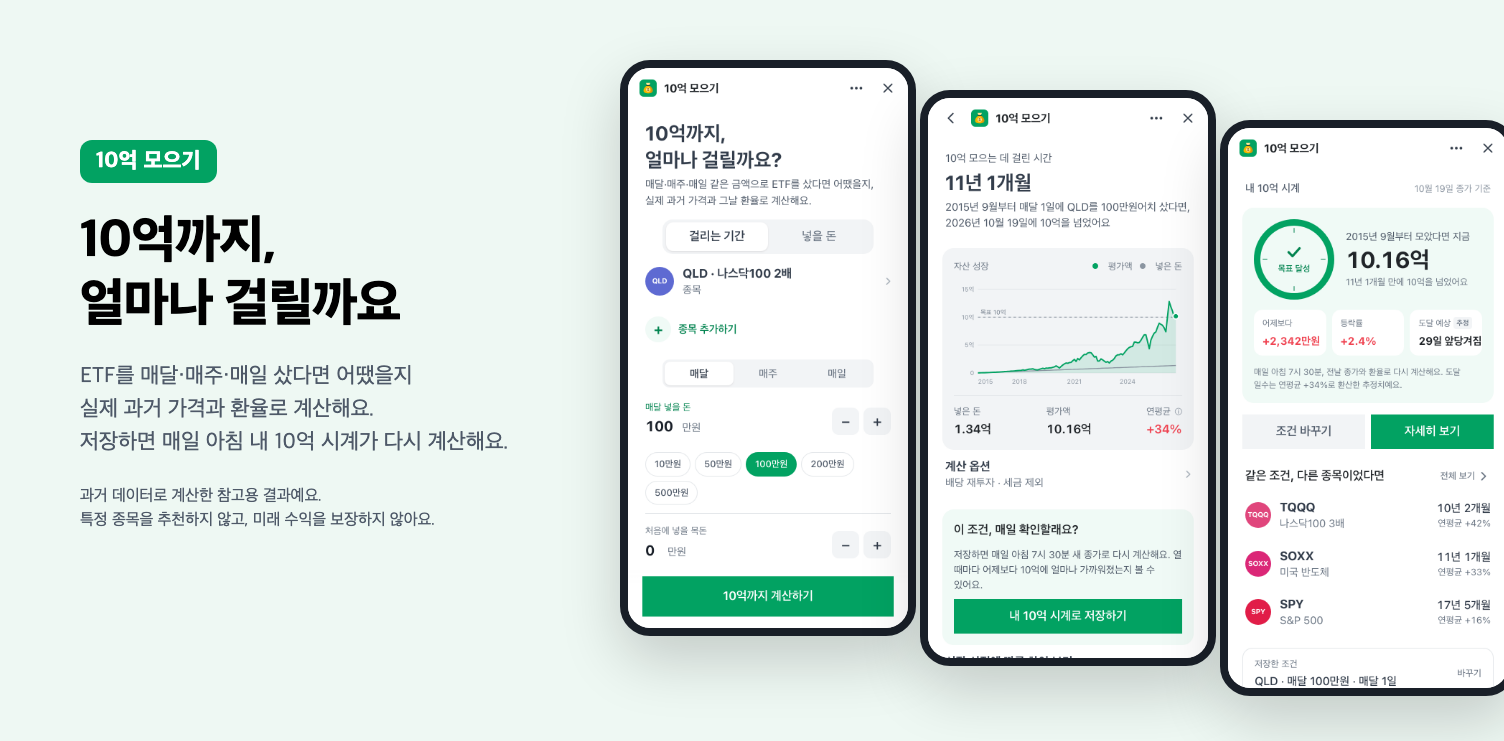
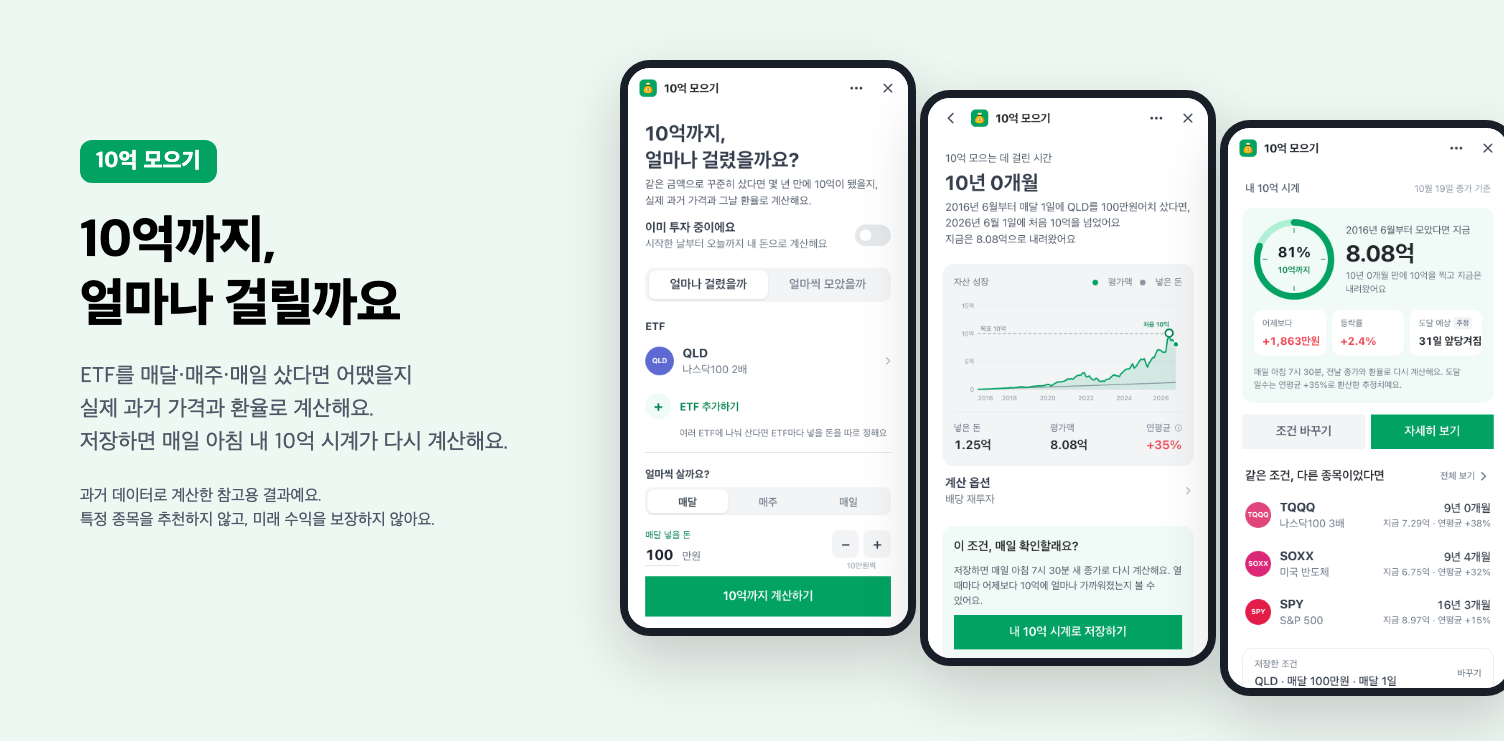
feat(toss): 홈 입력 화면 개편(리뷰 10건 반영)
- 제목·탭 과거형: '얼마나 걸렸을까요?' · '얼마씩 모았어야 했을까요?'(미래 예측처럼 읽히지 않게)
- '이미 투자 중이에요'를 맨 위로(계산 기준 선택), 설명 '시작한 날부터 오늘까지 내 돈으로 계산해요'
- 'ETF' 섹션 라벨, 행 보조문구 '종목' 제거, 'ETF 추가하기'+안내, 분산 매수 행에 비중 %
- '얼마씩 살까요?' 아래 주기+금액 묶음, 숫자·셀렉트에 밑줄과 ▾, ± 아래 '10만원씩'
- '시작할 때 한 번에 넣을 돈'·칩 '0원', 매수일 값 '1일'
- 광고 CTA '광고 보고 계산하기', 면책 문구 공통 문장으로
- 좌우 기준선 24px 통일(TDS 세그먼트 이중 여백 제거), 스토어 스크린샷 재생성

diff --git a/toss/src/screens/InputScreen.tsx b/toss/src/screens/InputScreen.tsx
@@ -2,7 +2,7 @@ import { useEffect, useState } from "react";
 import { Button, ListRow, SegmentedControl, Switch, Top } from "@toss/tds-mobile";
 import { tickerTitle } from "@/lib/tickers";
 import { tossSubtitle } from "../lib/groups";
-import { NavBar, Stepper, TickerSheet, Avatar, HoldingRow } from "../components/ui";
+import { NavBar, Stepper, TickerSheet, Avatar, HoldingRow, ChevronDown } from "../components/ui";
 import { analytics } from "../lib/platform";
 import { manLabel, freqWord } from "../lib/fmt";
 import { AMOUNT_CHIPS, AMOUNT_MIN, AMOUNT_STEP, MAX_HOLDINGS, withHoldings, totalAmount, type Plan, type Freq, type Weekday, type Holding } from "../lib/plan";
@@ -38,79 +38,105 @@ export function InputScreen({ plan, setPlan, onSubmit, adNeeded = false, hasCloc
   };
   const remove = (i: number) => { setHs(hs.filter((_, j) => j !== i)); analytics.click("remove_holding", { count: hs.length - 1 }); };
   const canSubmit = !plan.tracking || /^\d{4}-\d{2}-\d{2}$/.test(plan.startDate);
+  const total = totalAmount(plan);
+  const cta = adNeeded ? "광고 보고 계산하기" : plan.tracking ? "내 돈 계산하기" : plan.mode === "time" ? "10억까지 계산하기" : "필요한 금액 계산하기";
   return (
     <div className="screen">
       <NavBar onMenu={onMenu} onClose={onClose} />
       <Top
         upperGap={16}
         lowerGap={4}
-        title={<Top.TitleParagraph size={28}>{plan.tracking ? <>내 돈은 지금,<br />10억까지 얼마나 왔을까요?</> : plan.mode === "amount" ? <>10억까지,<br />얼마씩 모아야 할까요?</> : <>10억까지,<br />얼마나 걸릴까요?</>}</Top.TitleParagraph>}
-        subtitleBottom={<Top.SubtitleParagraph size={15}>{plan.tracking ? "실제로 모으기 시작한 날과 금액을 넣으면, 지금 평가액과 10억까지 진행률을 매일 다시 계산해요." : "매달·매주·매일 같은 금액으로 ETF를 샀다면 어땠을지, 실제 과거 가격과 그날 환율로 계산해요."}</Top.SubtitleParagraph>}
+        title={<Top.TitleParagraph size={28}>{plan.tracking ? <>내 돈은 지금,<br />10억까지 얼마나 왔을까요?</> : plan.mode === "amount" ? <>10억까지,<br />얼마씩 모았어야 했을까요?</> : <>10억까지,<br />얼마나 걸렸을까요?</>}</Top.TitleParagraph>}
+        subtitleBottom={<Top.SubtitleParagraph size={15}>{plan.tracking
+          ? "투자를 시작한 날과 금액을 넣으면, 오늘 평가액과 10억까지 진행률을 계산해요."
+          : plan.mode === "amount"
+            ? "정한 기간 안에 10억이 되려면 얼마씩 샀어야 했는지, 실제 과거 가격과 그날 환율로 계산해요."
+            : "같은 금액으로 꾸준히 샀다면 몇 년 만에 10억이 됐을지, 실제 과거 가격과 그날 환율로 계산해요."}</Top.SubtitleParagraph>}
       />
       {hasClock && (
         <button type="button" className="clock-link" onClick={goClock}>
           <span>내 10억 시계가 오늘 숫자를 준비했어요</span><span className="brand-text">보기</span>
         </button>
       )}
-      {!plan.tracking && (
+
+      {/* 계산 기준을 바꾸는 선택이라 맨 위에 둔다 */}
+      <ul className="tds-list">
+        <ListRow
+          contents={<ListRow.Texts type="2RowTypeA" top="이미 투자 중이에요" bottom="시작한 날부터 오늘까지 내 돈으로 계산해요" />}
+          right={<Switch checked={plan.tracking} onChange={(_, c) => set({ tracking: c, mode: "time" })} aria-label="이미 투자 중이에요" />}
+        />
+      </ul>
+      {plan.tracking ? (
+        <div className="row">
+          <label htmlFor="startdate" className="field">
+            <span className="field-label brand">언제부터 샀나요?</span>
+            <span className="select-wrap">
+              <input id="startdate" type="date" className="select" value={plan.startDate} max={TODAY} min="1990-01-01" onChange={(e) => set({ startDate: e.target.value })} />
+              <ChevronDown />
+            </span>
+          </label>
+        </div>
+      ) : (
         <div className="seg-wrap">
           <SegmentedControl size="large" value={plan.mode} onChange={(v) => set({ mode: v === "amount" && !multi ? "amount" : "time" })} aria-label="계산 모드">
-            <SegmentedControl.Item value="time">얼마나 걸릴까</SegmentedControl.Item>
-            <SegmentedControl.Item value="amount" disabled={multi}>얼마씩 모을까</SegmentedControl.Item>
+            <SegmentedControl.Item value="time">얼마나 걸렸을까</SegmentedControl.Item>
+            <SegmentedControl.Item value="amount" disabled={multi}>얼마씩 모았을까</SegmentedControl.Item>
           </SegmentedControl>
-          {multi && <p className="seg-note">얼마씩 모을지는 종목이 하나일 때 계산할 수 있어요</p>}
+          {multi && <p className="seg-note">얼마씩 모았을지는 ETF가 하나일 때 계산할 수 있어요</p>}
         </div>
       )}
 
+      <div className="section-label">{multi ? `${hs.length}개 ETF에 나눠 사요` : "ETF"}</div>
       {multi ? (
-        <>
-          <div className="holdings-head">
-            <span className="field-label">{hs.length}개 종목에 나눠 사요</span>
-            <span className="holdings-total">{freqWord(plan.freq)} {manLabel(totalAmount(plan))}</span>
-          </div>
-          {hs.map((h, i) => (
-            <HoldingRow key={h.ticker} symbol={h.ticker} value={h.amount} unit="만원" min={AMOUNT_MIN[plan.freq]} max={100_000} step={AMOUNT_STEP[plan.freq]} onChange={(v) => setAmount(i, v)} onPick={() => setSheet(i)} onRemove={() => remove(i)} />
-          ))}
-        </>
+        hs.map((h, i) => (
+          <HoldingRow key={h.ticker} symbol={h.ticker} value={h.amount} unit="만원" min={AMOUNT_MIN[plan.freq]} max={100_000} step={AMOUNT_STEP[plan.freq]} share={total > 0 ? h.amount / total : 0} onChange={(v) => setAmount(i, v)} onPick={() => setSheet(i)} onRemove={() => remove(i)} />
+        ))
       ) : (
         <ul className="tds-list">
           <ListRow
             left={<Avatar symbol={plan.ticker} size={40} />}
-            contents={<ListRow.Texts type="2RowTypeA" top={`${tickerTitle(plan.ticker)} · ${tossSubtitle(plan.ticker)}`} bottom="종목" />}
+            contents={<ListRow.Texts type="2RowTypeA" top={tickerTitle(plan.ticker)} bottom={tossSubtitle(plan.ticker)} />}
             withArrow
             onClick={() => setSheet(0)}
             aria-haspopup="dialog"
+            aria-label={`ETF ${tickerTitle(plan.ticker)} 바꾸기`}
           />
         </ul>
       )}
       {hs.length < MAX_HOLDINGS && (
-        <button type="button" className="add-row" onClick={() => setSheet(-1)} aria-haspopup="dialog"><span className="plus" aria-hidden="true">+</span>종목 추가하기</button>
+        <>
+          <button type="button" className="add-row" onClick={() => setSheet(-1)} aria-haspopup="dialog"><span className="plus" aria-hidden="true">+</span>ETF 추가하기</button>
+          {!multi && <p className="add-note">여러 ETF에 나눠 산다면 ETF마다 넣을 돈을 따로 정해요</p>}
+        </>
       )}
 
-      <div className="seg-wrap">
+      <div className="hr section-gap" />
+      <div className="section-label">얼마씩 살까요?</div>
+      <div className="seg-wrap tight">
         <SegmentedControl size="small" value={plan.freq} onChange={(v) => setFreq(v as Freq)} aria-label="사는 주기">
           <SegmentedControl.Item value="monthly">매달</SegmentedControl.Item>
           <SegmentedControl.Item value="weekly">매주</SegmentedControl.Item>
           <SegmentedControl.Item value="daily">매일</SegmentedControl.Item>
         </SegmentedControl>
       </div>
-
-      {multi ? null : plan.mode === "time" || plan.tracking ? (
-        <Stepper id="amount" label={`${freqWord(plan.freq)} 넣을 돈`} value={plan.amount} unit="만원" min={AMOUNT_MIN[plan.freq]} max={100_000} step={AMOUNT_STEP[plan.freq]} chips={AMOUNT_CHIPS[plan.freq]} chipLabel={manLabel} onChange={(v) => setAmount(0, v)} accent />
+      {multi ? (
+        <div className="row total-row"><span className="field-label">{freqWord(plan.freq)} 합계</span><span className="holdings-total">{manLabel(total)}</span></div>
+      ) : plan.mode === "time" || plan.tracking ? (
+        <Stepper id="amount" label={`${freqWord(plan.freq)} 넣을 돈`} value={plan.amount} unit="만원" min={AMOUNT_MIN[plan.freq]} max={100_000} step={AMOUNT_STEP[plan.freq]} stepLabel={manLabel(AMOUNT_STEP[plan.freq])} chips={AMOUNT_CHIPS[plan.freq]} chipLabel={manLabel} onChange={(v) => setAmount(0, v)} accent />
       ) : (
-        <Stepper id="years" label="몇 년 안에 모을까요?" value={plan.years} unit="년" min={1} max={40} step={1} chips={[5, 10, 15, 20]} chipLabel={(y) => `${y}년`} onChange={(v) => set({ years: v })} accent />
+        <Stepper id="years" label="몇 년 안에 모을까요?" value={plan.years} unit="년" min={1} max={40} step={1} stepLabel="1년" chips={[5, 10, 15, 20]} chipLabel={(y) => `${y}년`} onChange={(v) => set({ years: v })} accent />
       )}
-      <div className="hr" />
-      <Stepper id="lump" label="처음에 넣을 목돈" value={plan.lump} unit="만원" min={0} max={1_000_000} step={100} chips={[0, 1000, 5000, 10000]} chipLabel={(v) => (v === 0 ? "없어요" : manLabel(v))} onChange={(v) => set({ lump: v })} />
-      {plan.freq !== "daily" && <div className="hr" />}
       {plan.freq === "monthly" && (
         <div className="row">
           <label htmlFor="buyday" className="field">
             <span className="field-label">매달 사는 날</span>
-            <select id="buyday" className="select" value={plan.buyDay} onChange={(e) => set({ buyDay: Number(e.target.value) })}>
-              {Array.from({ length: 28 }, (_, i) => i + 1).map((d) => <option key={d} value={d}>매달 {d}일</option>)}
-              <option value={29}>매달 말일</option>
-            </select>
+            <span className="select-wrap">
+              <select id="buyday" className="select" value={plan.buyDay} onChange={(e) => set({ buyDay: Number(e.target.value) })}>
+                {Array.from({ length: 28 }, (_, i) => i + 1).map((d) => <option key={d} value={d}>{d}일</option>)}
+                <option value={29}>말일</option>
+              </select>
+              <ChevronDown />
+            </span>
           </label>
         </div>
       )}
@@ -118,31 +144,23 @@ export function InputScreen({ plan, setPlan, onSubmit, adNeeded = false, hasCloc
         <div className="row">
           <label htmlFor="weekday" className="field">
             <span className="field-label">매주 사는 요일</span>
-            <select id="weekday" className="select" value={plan.weekday} onChange={(e) => set({ weekday: Number(e.target.value) as Weekday })}>
-              {([1, 2, 3, 4, 5] as Weekday[]).map((w) => <option key={w} value={w}>{["", "월", "화", "수", "목", "금"][w]}요일</option>)}
-            </select>
+            <span className="select-wrap">
+              <select id="weekday" className="select" value={plan.weekday} onChange={(e) => set({ weekday: Number(e.target.value) as Weekday })}>
+                {([1, 2, 3, 4, 5] as Weekday[]).map((w) => <option key={w} value={w}>{["", "월", "화", "수", "목", "금"][w]}요일</option>)}
+              </select>
+              <ChevronDown />
+            </span>
           </label>
         </div>
       )}
 
-      <ul className="tds-list" style={{ marginTop: 8 }}>
-        <ListRow
-          contents={<ListRow.Texts type="2RowTypeA" top="이미 모으고 있어요" bottom="시작한 날을 넣으면 내 돈 기준으로 계산해요" />}
-          right={<Switch checked={plan.tracking} onChange={(_, c) => set({ tracking: c, mode: "time" })} aria-label="이미 모으고 있어요" />}
-        />
-      </ul>
-      {plan.tracking && (
-        <div className="row">
-          <label htmlFor="startdate" className="field">
-            <span className="field-label brand">언제부터 샀나요?</span>
-            <input id="startdate" type="date" className="select" value={plan.startDate} max={TODAY} min="1990-01-01" onChange={(e) => set({ startDate: e.target.value })} />
-          </label>
-        </div>
-      )}
-      <p className="disc cta-space">과거 데이터로 계산한 참고용 결과예요. 투자 권유가 아니고, 미래 수익을 보장하지 않아요.</p>
+      <div className="hr section-gap" />
+      <Stepper id="lump" label="시작할 때 한 번에 넣을 돈" value={plan.lump} unit="만원" min={0} max={1_000_000} step={100} stepLabel="100만원" chips={[0, 1000, 5000, 10000]} chipLabel={(v) => (v === 0 ? "0원" : manLabel(v))} onChange={(v) => set({ lump: v })} />
+
+      <p className="disc cta-space">과거 데이터로 계산한 참고용 결과예요. 특정 종목을 추천하지 않고, 미래 수익을 보장하지 않아요.</p>
       <div className="spacer" />
       <div className="cta-bar">
-        <Button display="full" size="xlarge" disabled={!canSubmit} onClick={onSubmit}>{plan.tracking ? "내 돈 계산하기" : plan.mode === "time" ? "10억까지 계산하기" : "필요한 금액 계산하기"}{adNeeded && <span className="ad-chip">AD</span>}</Button>
+        <Button display="full" size="xlarge" disabled={!canSubmit} onClick={onSubmit}>{cta}</Button>
       </div>
       {sheet != null && <TickerSheet current={sheet >= 0 ? hs[sheet]?.ticker ?? "" : ""} taken={hs.map((h) => h.ticker)} onPick={pick} onClose={() => setSheet(null)} />}
     </div>

diff --git a/toss/src/tds.css b/toss/src/tds.css
@@ -40,7 +40,7 @@ input, select { font-family: inherit; }
 .top-row { display: flex; align-items: baseline; justify-content: space-between; padding: 16px 24px 0; }
 .top-k { font-size: 15px; font-weight: 500; color: var(--grey700); }
 .top-d { font-size: 13px; color: var(--grey500); }
-.clock-link { margin: 14px 20px 0; display: flex; justify-content: space-between; align-items: center; gap: 8px; width: calc(100% - 40px); border: 0; border-radius: 12px; background: var(--brand-weak); padding: 12px 14px; font-size: 14px; font-weight: 500; color: var(--grey800); text-align: left; }
+.clock-link { margin: 14px 24px 0; display: flex; justify-content: space-between; align-items: center; gap: 8px; width: calc(100% - 48px); border: 0; border-radius: 12px; background: var(--brand-weak); padding: 12px 14px; font-size: 14px; font-weight: 500; color: var(--grey800); text-align: left; }
 .brand-text { color: var(--brand-strong); font-weight: 600; }
 
 /* Segmented control */
@@ -73,7 +73,7 @@ input, select { font-family: inherit; }
 
 /* Stepper */
 .field-value-wrap { display: inline-flex; align-items: baseline; gap: 4px; }
-.field-input { border: 0; background: transparent; font-size: 20px; line-height: 29px; font-weight: 700; color: var(--grey900); padding: 0; font-variant-numeric: tabular-nums; min-width: 2ch; }
+.field-input { border: 0; border-bottom: 2px solid var(--grey200); border-radius: 0; background: transparent; font-size: 20px; line-height: 29px; font-weight: 700; color: var(--grey900); padding: 0; font-variant-numeric: tabular-nums; min-width: 2ch; }
 .unit { font-size: 15px; color: var(--grey600); }
 .stepper-btns { display: flex; gap: 6px; flex: 0 0 auto; }
 .stepper-btn { width: 38px; height: 38px; border-radius: 10px; border: 0; background: var(--grey100); color: var(--grey800); font-size: 20px; font-weight: 500; }
@@ -91,7 +91,7 @@ input[type="date"].select { font-size: 18px; min-height: 29px; }
 .btn.weak { background: var(--brand-weak); color: var(--brand-strong); }
 .btn.dark-weak { background: var(--grey100); color: var(--grey800); }
 .btn-row { display: flex; gap: 8px; padding: 16px 20px 0; }
-.cta-bar { position: sticky; bottom: 0; padding: 12px 20px calc(16px + env(safe-area-inset-bottom, 0px)); background: linear-gradient(to top, #fff 75%, rgba(255, 255, 255, 0)); }
+.cta-bar { position: sticky; bottom: 0; padding: 12px 24px calc(16px + env(safe-area-inset-bottom, 0px)); background: linear-gradient(to top, #fff 75%, rgba(255, 255, 255, 0)); }
 .pill { flex: 0 0 auto; font-size: 13px; font-weight: 600; border-radius: 10px; padding: 9px 12px; min-height: 38px; display: inline-flex; align-items: center; gap: 4px; }
 .pill.brand { background: var(--brand-weak); color: var(--brand-strong); }
 
@@ -224,7 +224,7 @@ input[type="date"].select { font-size: 18px; min-height: 29px; }
 .holding-pick { border: 0; background: transparent; padding: 0; border-radius: 50%; flex: 0 0 auto; }
 .holding-del { width: 32px; height: 32px; color: var(--grey500); flex: 0 0 auto; }
 .holding-del svg { width: 18px; height: 18px; }
-.add-row { display: flex; align-items: center; gap: 10px; width: calc(100% - 40px); margin: 4px 20px 0; padding: 12px 4px; border: 0; background: transparent; font-size: 15px; font-weight: 600; color: var(--brand-strong); text-align: left; }
+.add-row { display: flex; align-items: center; gap: 12px; width: calc(100% - 48px); margin: 2px 24px 0; padding: 10px 0; border: 0; background: transparent; font-size: 15px; font-weight: 600; color: var(--brand-strong); text-align: left; }
 .add-row .plus { width: 36px; height: 36px; border-radius: 50%; background: var(--brand-weak); display: inline-flex; align-items: center; justify-content: center; font-size: 20px; }
 .holdings-head { display: flex; align-items: baseline; justify-content: space-between; padding: 16px 24px 2px; }
 .holdings-total { font-size: 20px; font-weight: 700; color: var(--grey900); font-variant-numeric: tabular-nums; }
@@ -236,3 +236,19 @@ input[type="date"].select { font-size: 18px; min-height: 29px; }
 .screen-host.enter-fwd { animation: screen-in 200ms cubic-bezier(0.2, 0.8, 0.2, 1); }
 @keyframes screen-in { from { opacity: 0.6; transform: translateX(24px); } to { opacity: 1; transform: none; } }
 @media (prefers-reduced-motion: reduce) { .screen-host.enter-fwd { animation: none; } }
+/* 홈 입력 정리(10/22): 좌우 기준선 24px, 입력 가능한 곳 표시, 섹션 라벨 */
+/* TDS SegmentedControl이 자체로 좌우 24px 여백을 가져서 바깥 여백은 0 — 다른 입력과 기준선 24px로 맞춤 */
+.seg-wrap { padding-left: 0; padding-right: 0; }
+.seg-wrap .seg-note { padding: 6px 24px 0; }
+.seg-wrap.tight { padding-top: 4px; }
+.section-label { padding: 18px 24px 4px; font-size: 15px; font-weight: 700; color: var(--grey800); }
+.hr.section-gap { margin-top: 12px; }
+.field-input:focus { outline: none; border-bottom-color: var(--brand); }
+.select-wrap { display: inline-flex; align-items: center; gap: 6px; border-bottom: 2px solid var(--grey200); padding-right: 2px; align-self: flex-start; }
+.select-wrap:focus-within { border-bottom-color: var(--brand); }
+.select-wrap .chev-down { color: var(--grey500); flex: 0 0 auto; pointer-events: none; }
+.stepper-col { display: flex; flex-direction: column; align-items: center; gap: 4px; flex: 0 0 auto; }
+.step-hint { font-size: 11px; line-height: 14px; color: var(--grey500); }
+.add-note { margin: 0; padding: 0 24px 4px 72px; font-size: 13px; line-height: 19.5px; color: var(--grey600); }
+.total-row { justify-content: space-between; }
+.field-label .share { color: var(--grey500); }

diff --git a/toss/src/components/ui.tsx b/toss/src/components/ui.tsx
@@ -12,6 +12,7 @@ export const ChevronLeft = () => <I d="M15 5l-7 7 7 7" />;
 export const ChevronRight = () => <svg width="20" height="20" viewBox="0 0 24 24" fill="none" stroke="currentColor" strokeWidth="2.2" strokeLinecap="round" strokeLinejoin="round" aria-hidden="true"><path d="M9 6l6 6-6 6" /></svg>;
 export const Dots = () => <svg width="22" height="22" viewBox="0 0 24 24" fill="currentColor" aria-hidden="true"><circle cx="5" cy="12" r="2" /><circle cx="12" cy="12" r="2" /><circle cx="19" cy="12" r="2" /></svg>;
 export const XIcon = () => <I d="M6 6l12 12M18 6L6 18" />;
+export const ChevronDown = () => <svg className="chev-down" width="18" height="18" viewBox="0 0 24 24" fill="none" stroke="currentColor" strokeWidth="2.4" strokeLinecap="round" strokeLinejoin="round" aria-hidden="true"><path d="M6 9l6 6 6-6" /></svg>;
 export const Check = () => <svg width="26" height="26" viewBox="0 0 24 24" fill="none" stroke="currentColor" strokeWidth="3" strokeLinecap="round" strokeLinejoin="round" aria-hidden="true"><path d="M5 12l5 5 9-10" /></svg>;
 export const ArrowDown = () => <svg width="14" height="14" viewBox="0 0 24 24" fill="none" stroke="currentColor" strokeWidth="3" strokeLinecap="round" strokeLinejoin="round" aria-hidden="true"><path d="M12 5v14M5 12l7 7 7-7" /></svg>;
 export const ArrowUp = () => <svg width="14" height="14" viewBox="0 0 24 24" fill="none" stroke="currentColor" strokeWidth="3" strokeLinecap="round" strokeLinejoin="round" aria-hidden="true"><path d="M12 19V5M5 12l7-7 7 7" /></svg>;
@@ -163,8 +164,8 @@ export function Chart({ series, target, mark }: { series: Pt[]; target: number; 
 }
 
 /* ── 숫자 스테퍼 + 프리셋 칩 ── */
-export function Stepper({ id, label, value, unit, min, max, step, chips, chipLabel, onChange, accent }: {
-  id: string; label: string; value: number; unit: string; min: number; max: number; step: number;
+export function Stepper({ id, label, value, unit, min, max, step, stepLabel, chips, chipLabel, onChange, accent }: {
+  id: string; label: string; value: number; unit: string; min: number; max: number; step: number; stepLabel?: string;
   chips?: number[]; chipLabel?: (v: number) => string; onChange: (v: number) => void; accent?: boolean;
 }) {
   const [text, setText] = useState(String(value));
@@ -181,9 +182,12 @@ export function Stepper({ id, label, value, unit, min, max, step, chips, chipLab
             <span className="unit">{unit}</span>
           </span>
         </label>
-        <div className="stepper-btns">
-          <button type="button" className="stepper-btn" aria-label={`${label} 줄이기`} onClick={() => onChange(clamp(value - step))}>−</button>
-          <button type="button" className="stepper-btn" aria-label={`${label} 늘리기`} onClick={() => onChange(clamp(value + step))}>+</button>
+        <div className="stepper-col">
+          <div className="stepper-btns">
+            <button type="button" className="stepper-btn" aria-label={`${label} ${stepLabel ?? ""} 줄이기`} onClick={() => onChange(clamp(value - step))}>−</button>
+            <button type="button" className="stepper-btn" aria-label={`${label} ${stepLabel ?? ""} 늘리기`} onClick={() => onChange(clamp(value + step))}>+</button>
+          </div>
+          {stepLabel && <span className="step-hint">{stepLabel}씩</span>}
         </div>
       </div>
       {chips && (
@@ -198,8 +202,8 @@ export function Stepper({ id, label, value, unit, min, max, step, chips, chipLab
 }
 
 /* ── 분산 매수 종목 행: 아바타(누르면 종목 변경) · 이름 · 금액 입력 · −/+ · 빼기 ── */
-export function HoldingRow({ symbol, value, unit, min, max, step, onChange, onPick, onRemove }: {
-  symbol: string; value: number; unit: string; min: number; max: number; step: number;
+export function HoldingRow({ symbol, value, unit, min, max, step, share, onChange, onPick, onRemove }: {
+  symbol: string; value: number; unit: string; min: number; max: number; step: number; share?: number;
   onChange: (v: number) => void; onPick: () => void; onRemove: () => void;
 }) {
   const [text, setText] = useState(String(value));
@@ -212,7 +216,7 @@ export function HoldingRow({ symbol, value, unit, min, max, step, onChange, onPi
     <div className="row holding-row">
       <button type="button" className="holding-pick" aria-label={`${name} 종목 바꾸기`} aria-haspopup="dialog" onClick={onPick}><Avatar symbol={symbol} size={36} /></button>
       <label htmlFor={id} className="field">
-        <span className="field-label">{name}</span>
+        <span className="field-label">{name}{share != null && <span className="share"> · {Math.round(share * 100)}%</span>}</span>
         <span className="field-value-wrap">
           <input id={id} className="field-input" inputMode="numeric" value={text} onChange={(e) => setText(e.target.value)} onBlur={commit} onKeyDown={(e) => { if (e.key === "Enter") (e.target as HTMLInputElement).blur(); }} style={{ width: `${Math.max(2, text.length + 0.5)}ch` }} />
           <span className="unit">{unit}</span>

diff --git a/toss/UX_WRITING.md b/toss/UX_WRITING.md
@@ -54,8 +54,8 @@
 | 가장 안 좋을 때 / 중간 / 가장 좋을 때 | 최소 / 중앙값 / 최대 | 최악/최선, 백분위 |
 | 상장 전은 추정치 | 유사 지수 스케일 접합 | 프록시 합성, 스플라이스 |
 | 매달 사는 날 | 매수일 | 매수일, 납입일 |
-| 처음에 넣을 목돈 | 초기 투자금 | 초기금, 일시금 |
-| 종목 추가하기 · 2개 종목에 나눠 사요 | 분산 매수(최대 5종목, 종목별 1회 적립액) | 포트폴리오, 분산 투자, 리밸런싱 |
+| 시작할 때 한 번에 넣을 돈 · 칩 "0원" | 초기 투자금 | 초기금, 일시금, 목돈(이미 모은 돈과 헷갈림) |
+| ETF 추가하기 · 2개 ETF에 나눠 사요 · 비중 62% | 분산 매수(최대 5종목, 종목별 1회 적립액) | 포트폴리오, 분산 투자, 리밸런싱 |
 | 종목별 | 보유 종목별 넣은 돈·평가액·연평균 | 구성 종목, 비중 |
 | 이미 담았어요 | 다른 행에서 고른 종목(중복 선택 불가) | 선택 불가, 중복 |
 | ○○ 데이터가 2022년 1월부터라 그때부터 계산했어요 | 공통 데이터 시작일로 계산 시작을 늦춤 | 데이터 부족, 기간 제한 |
@@ -71,7 +71,7 @@
 |---|---|---|---|
 | 홈 제목 | 10억 모으기, 얼마나 걸릴까요? | 10억까지, 얼마나 걸릴까요? | 네비바 "10억 모으기"와 중복 → 의미 없는 반복 제거 |
 | 홈 설명 | 고른 ETF를 매달 같은 금액으로 샀다고 가정하고 실제 과거 가격과… | 매달 같은 금액으로 ETF를 샀다면 어땠을지, 실제 과거 가격과 그날 환율로 계산해요. | 잡초(가정하고) 제거, 구어 |
-| 모드 토글 | 걸리는 기간 / 넣을 돈 | 얼마나 걸릴까 / 얼마씩 모을까 (10/22) | 두 탭이 대등한 질문으로 읽히게. "넣을 돈"은 아래 입력칸 "매달 넣을 돈"과 겹쳤음. 탭에 따라 제목도 "얼마나 걸릴까요?" / "얼마씩 모아야 할까요?" |
+| 모드 토글 | 걸리는 기간 / 넣을 돈 | 얼마나 걸렸을까 / 얼마씩 모았을까 (10/22) | 두 탭이 대등한 질문으로 읽히게. 과거 시뮬레이션이라 과거형(미래 예측처럼 읽히면 안 됨). 제목도 "얼마나 걸렸을까요?" / "얼마씩 모았어야 했을까요?" |
 | 결과 문구 | …에 10억을 넘었어요(오늘 날짜) | …에 처음 10억을 넘었어요 + 오늘은 N억이에요 / 지금은 N억으로 내려왔어요 (10/22) | 기간은 처음 도달까지, 오늘 금액은 따로 정직하게 |
 | 입력 라벨 | 매달 넣을 금액 · 시작할 때 넣을 목돈 (없으면 0) | 매달 넣을 돈 · 처음에 넣을 목돈 + 칩 "없어요" | 쉬운 말, 괄호 제거 |
 | 시계 안내 | 저장한 내 10억 시계가 있어요 · 보러 가기 | 내 10억 시계가 오늘 숫자를 준비했어요 · 보기 | 감정 공감(원칙 8), 짧은 행동 |
@@ -95,3 +95,7 @@
 - "보여드려요/알려드려요" 같은 '드리다' 존대를 토스처럼 완전히 뺄지(토스는 "알려드릴게요"를 씀 → 허용으로 둠).
 - 상승·하락 색 관례(토스: 상승 빨강·하락 파랑)와 "줄었어요/늘었어요" 동사 병기 여부 — 타일에는 부호만, 토스트·푸시 문구에는 동사 사용 예정.
 - 앱 이름(국문 15자): "10억 모으기" 유지 vs "10억까지" — 심사 전 결정. **추천(10/20): '10억 모으기' 유지**(코드 title·공유 문구와 일치), 영문 'Billion Goal'. 근거·대안은 `toss/APP_INFO.md §1`.
+| 홈 구조 (10/22 리뷰 반영) | 목돈·이미 모으고 있어요가 아래에 섞임 | 맨 위 "이미 투자 중이에요"(시작한 날부터 오늘까지 내 돈으로 계산해요) → ETF → "얼마씩 살까요?"(주기+금액) → 매수일 → 시작할 때 한 번에 넣을 돈 | 계산 기준을 바꾸는 선택을 먼저, 관련 입력끼리 묶음 |
+| 입력 표시 | 숫자가 일반 텍스트처럼 보임 | 숫자·셀렉트에 밑줄, 셀렉트에 ▾, ± 아래 "10만원씩" | 직접 입력·변경 가능함을 보이게 |
+| 광고 CTA | 10억까지 계산하기 [AD] | 광고 보고 계산하기 | 배지 해석 없이 행동을 그대로(12자 이내) |
+| 매수일 값 | 매달 1일 | 1일 (라벨 "매달 사는 날") | 라벨과 값의 반복 제거 |
